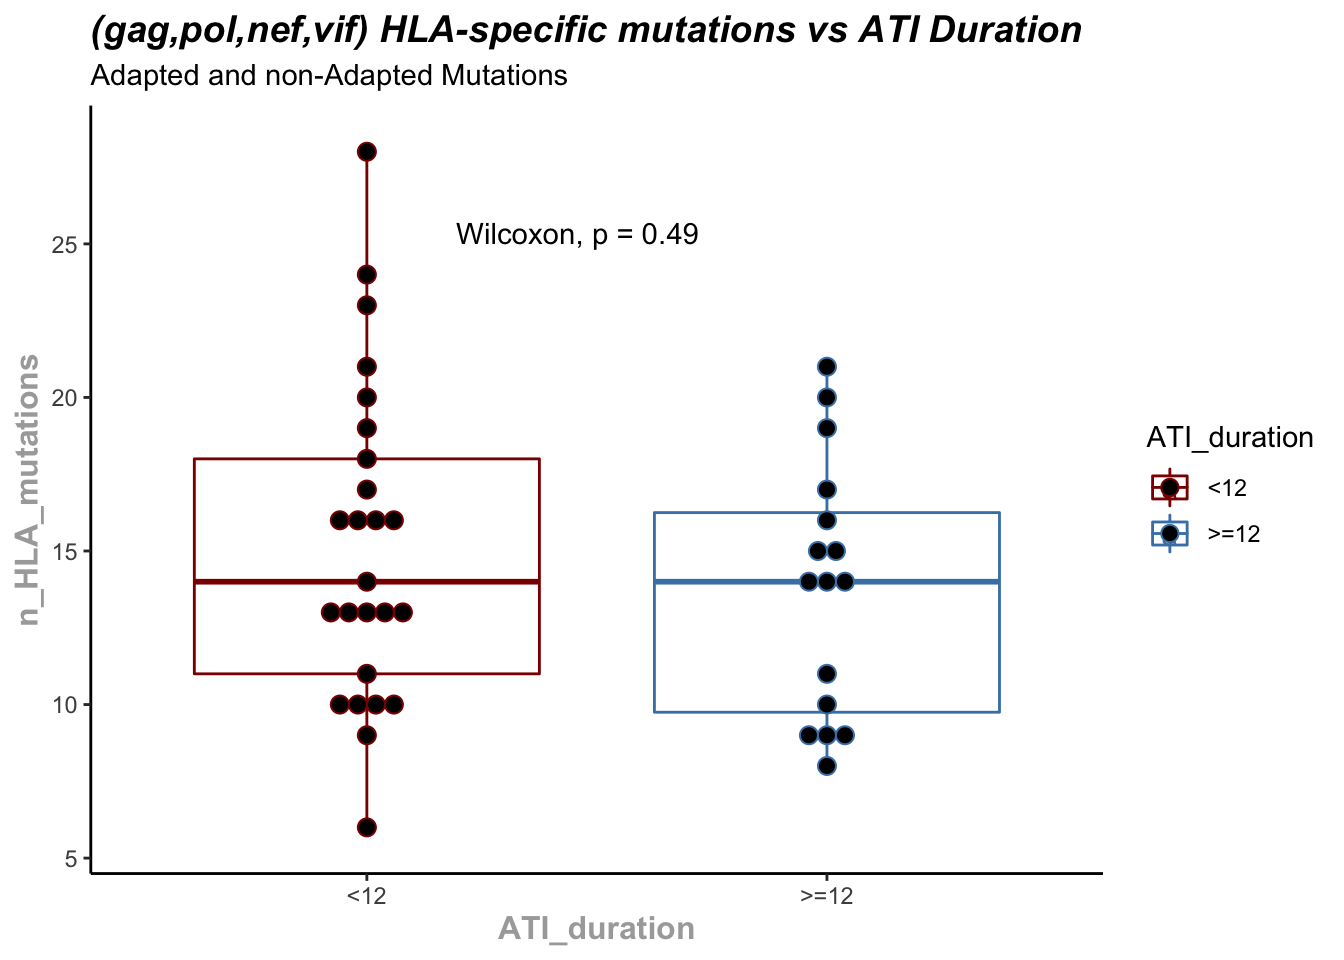
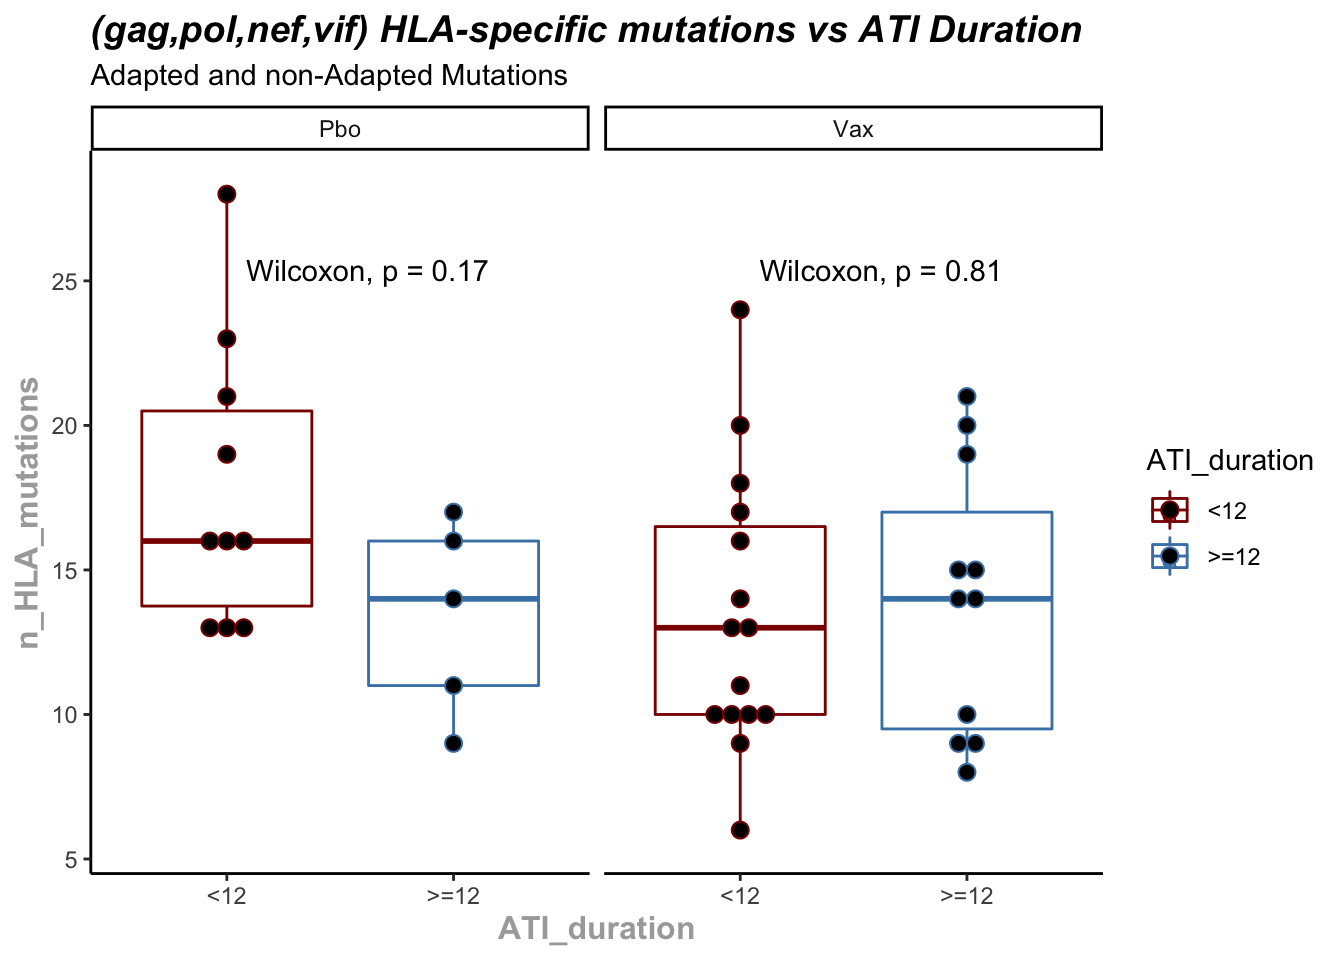
workflowr::wflow_publish(all = T)

diff --git a/docs/051_AdaptedHLAMutations.html b/docs/051_AdaptedHLAMutations.html
@@ -372,7 +372,7 @@ div.tocify {
 
 <p>
 <button type="button" class="btn btn-default btn-workflowr btn-workflowr-report" data-toggle="collapse" data-target="#workflowr-report">
-<span class="glyphicon glyphicon-list" aria-hidden="true"></span> workflowr <span class="glyphicon glyphicon-ok text-success" aria-hidden="true"></span>
+<span class="glyphicon glyphicon-list" aria-hidden="true"></span> workflowr <span class="glyphicon glyphicon-exclamation-sign text-danger" aria-hidden="true"></span>
 </button>
 </p>
 <div id="workflowr-report" class="collapse">
@@ -381,7 +381,7 @@ div.tocify {
 <a data-toggle="tab" href="#summary">Summary</a>
 </li>
 <li>
-<a data-toggle="tab" href="#checks"> Checks <span class="glyphicon glyphicon-ok text-success" aria-hidden="true"></span> </a>
+<a data-toggle="tab" href="#checks"> Checks <span class="glyphicon glyphicon-exclamation-sign text-danger" aria-hidden="true"></span> </a>
 </li>
 <li>
 <a data-toggle="tab" href="#versions">Past versions</a>
@@ -393,7 +393,7 @@ div.tocify {
 <strong>Last updated:</strong> 2022-03-11
 </p>
 <p>
-<strong>Checks:</strong> <span class="glyphicon glyphicon-ok text-success" aria-hidden="true"></span> 7 <span class="glyphicon glyphicon-exclamation-sign text-danger" aria-hidden="true"></span> 0
+<strong>Checks:</strong> <span class="glyphicon glyphicon-ok text-success" aria-hidden="true"></span> 6 <span class="glyphicon glyphicon-exclamation-sign text-danger" aria-hidden="true"></span> 1
 </p>
 <p>
 <strong>Knit directory:</strong> <code>HLA_Analysis/</code> <span class="glyphicon glyphicon-question-sign" aria-hidden="true" title="This is the local directory in which the code in this file was executed."> </span>
@@ -409,12 +409,12 @@ This reproducible <a href="https://rmarkdown.rstudio.com">R Markdown</a> analysi
 <div class="panel panel-default">
 <div class="panel-heading">
 <p class="panel-title">
-<a data-toggle="collapse" data-parent="#workflowr-checks" href="#strongRMarkdownfilestronguptodate"> <span class="glyphicon glyphicon-ok text-success" aria-hidden="true"></span> <strong>R Markdown file:</strong> up-to-date </a>
+<a data-toggle="collapse" data-parent="#workflowr-checks" href="#strongRMarkdownfilestronguncommittedchanges"> <span class="glyphicon glyphicon-exclamation-sign text-danger" aria-hidden="true"></span> <strong>R Markdown file:</strong> uncommitted changes </a>
 </p>
 </div>
-<div id="strongRMarkdownfilestronguptodate" class="panel-collapse collapse">
+<div id="strongRMarkdownfilestronguncommittedchanges" class="panel-collapse collapse">
 <div class="panel-body">
-<p>Great! Since the R Markdown file has been committed to the Git repository, you know the exact version of the code that produced these results.</p>
+<p>The R Markdown file has unstaged changes. To know which version of the R Markdown file created these results, you’ll want to first commit it to the Git repo. If you’re still working on the analysis, you can ignore this warning. When you’re finished, you can run <code>wflow_publish</code> to commit the R Markdown file and build the HTML.</p>
 </div>
 </div>
 </div>
@@ -481,16 +481,16 @@ This reproducible <a href="https://rmarkdown.rstudio.com">R Markdown</a> analysi
 <div class="panel panel-default">
 <div class="panel-heading">
 <p class="panel-title">
-<a data-toggle="collapse" data-parent="#workflowr-checks" href="#strongRepositoryversionstrongahrefhttpsgithubcommnogueraHLAAnalysistree11539948ce62be9bd211f9be9608cf8c22621025targetblank1153994a"> <span class="glyphicon glyphicon-ok text-success" aria-hidden="true"></span> <strong>Repository version:</strong> <a href="https://github.com/mnoguera/HLA_Analysis/tree/11539948ce62be9bd211f9be9608cf8c22621025" target="_blank">1153994</a> </a>
+<a data-toggle="collapse" data-parent="#workflowr-checks" href="#strongRepositoryversionstrongahrefhttpsgithubcommnogueraHLAAnalysistree263e15ede4a2abf9cdfac5104b0d35fb23cffc65targetblank263e15ea"> <span class="glyphicon glyphicon-ok text-success" aria-hidden="true"></span> <strong>Repository version:</strong> <a href="https://github.com/mnoguera/HLA_Analysis/tree/263e15ede4a2abf9cdfac5104b0d35fb23cffc65" target="_blank">263e15e</a> </a>
 </p>
 </div>
[2 lines of base64/hex data omitted]
 <div class="panel-body">
 <p>
 Great! You are using Git for version control. Tracking code development and connecting the code version to the results is critical for reproducibility.
 </p>
 <p>
-The results in this page were generated with repository version <a href="https://github.com/mnoguera/HLA_Analysis/tree/11539948ce62be9bd211f9be9608cf8c22621025" target="_blank">1153994</a>. See the <em>Past versions</em> tab to see a history of the changes made to the R Markdown and HTML files.
+The results in this page were generated with repository version <a href="https://github.com/mnoguera/HLA_Analysis/tree/263e15ede4a2abf9cdfac5104b0d35fb23cffc65" target="_blank">263e15e</a>. See the <em>Past versions</em> tab to see a history of the changes made to the R Markdown and HTML files.
 </p>
 <p>
 Note that you need to be careful to ensure that all relevant files for the analysis have been committed to Git prior to generating the results (you can use <code>wflow_publish</code> or <code>wflow_git_commit</code>). workflowr only checks the R Markdown file, but you know if there are other scripts or data files that it depends on. Below is the status of the Git repository when the results were generated:
@@ -510,6 +510,10 @@ Ignored files:
 
 Untracked files:
     Untracked:  analysis/060_EpitopeSequences.Rmd
+
+Unstaged changes:
+    Modified:   analysis/050_AllHLAMutations.Rmd
+    Modified:   analysis/051_AdaptedHLAMutations.Rmd
 
 </code></pre>
 <p>
@@ -548,6 +552,23 @@ Message
 </tr>
 </thead>
 <tbody>
+<tr>
+<td>
+html
+</td>
+<td>
+<a href="https://rawcdn.githack.com/mnoguera/HLA_Analysis/263e15ede4a2abf9cdfac5104b0d35fb23cffc65/docs/051_AdaptedHLAMutations.html" target="_blank">263e15e</a>
+</td>
+<td>
+Marc Noguera-Julian
+</td>
+<td>
+2022-03-11
+</td>
+<td>
+Build site.
+</td>
+</tr>
 <tr>
 <td>
 Rmd
@@ -1062,7 +1083,7 @@ variant_df %&gt;%
       axis.title.x = element_text(color=&quot;darkgrey&quot;, size=12, face=&quot;bold&quot;),
       axis.title.y = element_text(color=&quot;darkgrey&quot;, size=12, face=&quot;bold&quot;)
     )+
-    geom_dotplot(binaxis=&#39;y&#39;, stackdir=&#39;center&#39;, dotsize=0.8)</code></pre>
+    geom_dotplot(binaxis=&#39;y&#39;, stackdir=&#39;center&#39;, dotsize=0.8)+facet_wrap(~TreatmentGroup)</code></pre>
 <pre><code>Joining, by = &quot;SampleID&quot;
 Bin width defaults to 1/30 of the range of the data. Pick better value with
 `binwidth`.</code></pre>
@@ -1089,6 +1110,17 @@ Date
 </tr>
 </thead>
 <tbody>
+<tr>
+<td>
+<a href="https://github.com/mnoguera/HLA_Analysis/blob/263e15ede4a2abf9cdfac5104b0d35fb23cffc65/docs/figure/051_AdaptedHLAMutations.Rmd/calculate numbe of variants in patients HLA Mutations List vs ATI Duration-1.png" target="_blank">263e15e</a>
+</td>
+<td>
+Marc Noguera-Julian
+</td>
+<td>
+2022-03-11
+</td>
+</tr>
 <tr>
 <td>
 <a href="https://github.com/mnoguera/HLA_Analysis/blob/6dc73f10cdbc5d8653f4c0a7f041e73a52ecb4ff/docs/figure/051_AdaptedHLAMutations.Rmd/calculate numbe of variants in patients HLA Mutations List vs ATI Duration-1.png" target="_blank">6dc73f1</a>

diff --git a/docs/050_AllHLAMutations.html b/docs/050_AllHLAMutations.html
@@ -372,7 +372,7 @@ div.tocify {
 
 <p>
 <button type="button" class="btn btn-default btn-workflowr btn-workflowr-report" data-toggle="collapse" data-target="#workflowr-report">
-<span class="glyphicon glyphicon-list" aria-hidden="true"></span> workflowr <span class="glyphicon glyphicon-ok text-success" aria-hidden="true"></span>
+<span class="glyphicon glyphicon-list" aria-hidden="true"></span> workflowr <span class="glyphicon glyphicon-exclamation-sign text-danger" aria-hidden="true"></span>
 </button>
 </p>
 <div id="workflowr-report" class="collapse">
@@ -381,7 +381,7 @@ div.tocify {
 <a data-toggle="tab" href="#summary">Summary</a>
 </li>
 <li>
-<a data-toggle="tab" href="#checks"> Checks <span class="glyphicon glyphicon-ok text-success" aria-hidden="true"></span> </a>
+<a data-toggle="tab" href="#checks"> Checks <span class="glyphicon glyphicon-exclamation-sign text-danger" aria-hidden="true"></span> </a>
 </li>
 <li>
 <a data-toggle="tab" href="#versions">Past versions</a>
@@ -393,7 +393,7 @@ div.tocify {
 <strong>Last updated:</strong> 2022-03-11
 </p>
 <p>
-<strong>Checks:</strong> <span class="glyphicon glyphicon-ok text-success" aria-hidden="true"></span> 7 <span class="glyphicon glyphicon-exclamation-sign text-danger" aria-hidden="true"></span> 0
+<strong>Checks:</strong> <span class="glyphicon glyphicon-ok text-success" aria-hidden="true"></span> 6 <span class="glyphicon glyphicon-exclamation-sign text-danger" aria-hidden="true"></span> 1
 </p>
 <p>
 <strong>Knit directory:</strong> <code>HLA_Analysis/</code> <span class="glyphicon glyphicon-question-sign" aria-hidden="true" title="This is the local directory in which the code in this file was executed."> </span>
@@ -409,12 +409,12 @@ This reproducible <a href="https://rmarkdown.rstudio.com">R Markdown</a> analysi
 <div class="panel panel-default">
 <div class="panel-heading">
 <p class="panel-title">
-<a data-toggle="collapse" data-parent="#workflowr-checks" href="#strongRMarkdownfilestronguptodate"> <span class="glyphicon glyphicon-ok text-success" aria-hidden="true"></span> <strong>R Markdown file:</strong> up-to-date </a>
+<a data-toggle="collapse" data-parent="#workflowr-checks" href="#strongRMarkdownfilestronguncommittedchanges"> <span class="glyphicon glyphicon-exclamation-sign text-danger" aria-hidden="true"></span> <strong>R Markdown file:</strong> uncommitted changes </a>
 </p>
 </div>
-<div id="strongRMarkdownfilestronguptodate" class="panel-collapse collapse">
+<div id="strongRMarkdownfilestronguncommittedchanges" class="panel-collapse collapse">
 <div class="panel-body">
-<p>Great! Since the R Markdown file has been committed to the Git repository, you know the exact version of the code that produced these results.</p>
+<p>The R Markdown file has unstaged changes. To know which version of the R Markdown file created these results, you’ll want to first commit it to the Git repo. If you’re still working on the analysis, you can ignore this warning. When you’re finished, you can run <code>wflow_publish</code> to commit the R Markdown file and build the HTML.</p>
 </div>
 </div>
 </div>
@@ -481,16 +481,16 @@ This reproducible <a href="https://rmarkdown.rstudio.com">R Markdown</a> analysi
 <div class="panel panel-default">
 <div class="panel-heading">
 <p class="panel-title">
-<a data-toggle="collapse" data-parent="#workflowr-checks" href="#strongRepositoryversionstrongahrefhttpsgithubcommnogueraHLAAnalysistree11539948ce62be9bd211f9be9608cf8c22621025targetblank1153994a"> <span class="glyphicon glyphicon-ok text-success" aria-hidden="true"></span> <strong>Repository version:</strong> <a href="https://github.com/mnoguera/HLA_Analysis/tree/11539948ce62be9bd211f9be9608cf8c22621025" target="_blank">1153994</a> </a>
+<a data-toggle="collapse" data-parent="#workflowr-checks" href="#strongRepositoryversionstrongahrefhttpsgithubcommnogueraHLAAnalysistree263e15ede4a2abf9cdfac5104b0d35fb23cffc65targetblank263e15ea"> <span class="glyphicon glyphicon-ok text-success" aria-hidden="true"></span> <strong>Repository version:</strong> <a href="https://github.com/mnoguera/HLA_Analysis/tree/263e15ede4a2abf9cdfac5104b0d35fb23cffc65" target="_blank">263e15e</a> </a>
 </p>
 </div>
[2 lines of base64/hex data omitted]
 <div class="panel-body">
 <p>
 Great! You are using Git for version control. Tracking code development and connecting the code version to the results is critical for reproducibility.
 </p>
 <p>
-The results in this page were generated with repository version <a href="https://github.com/mnoguera/HLA_Analysis/tree/11539948ce62be9bd211f9be9608cf8c22621025" target="_blank">1153994</a>. See the <em>Past versions</em> tab to see a history of the changes made to the R Markdown and HTML files.
+The results in this page were generated with repository version <a href="https://github.com/mnoguera/HLA_Analysis/tree/263e15ede4a2abf9cdfac5104b0d35fb23cffc65" target="_blank">263e15e</a>. See the <em>Past versions</em> tab to see a history of the changes made to the R Markdown and HTML files.
 </p>
 <p>
 Note that you need to be careful to ensure that all relevant files for the analysis have been committed to Git prior to generating the results (you can use <code>wflow_publish</code> or <code>wflow_git_commit</code>). workflowr only checks the R Markdown file, but you know if there are other scripts or data files that it depends on. Below is the status of the Git repository when the results were generated:
@@ -510,6 +510,10 @@ Ignored files:
 
 Untracked files:
     Untracked:  analysis/060_EpitopeSequences.Rmd
+
+Unstaged changes:
+    Modified:   analysis/050_AllHLAMutations.Rmd
+    Modified:   analysis/051_AdaptedHLAMutations.Rmd
 
 </code></pre>
 <p>
@@ -548,6 +552,23 @@ Message
 </tr>
 </thead>
 <tbody>
+<tr>
+<td>
+html
+</td>
+<td>
+<a href="https://rawcdn.githack.com/mnoguera/HLA_Analysis/263e15ede4a2abf9cdfac5104b0d35fb23cffc65/docs/050_AllHLAMutations.html" target="_blank">263e15e</a>
+</td>
+<td>
+Marc Noguera-Julian
+</td>
+<td>
+2022-03-11
+</td>
+<td>
+Build site.
+</td>
+</tr>
 <tr>
 <td>
 Rmd
@@ -1048,7 +1069,7 @@ variant_df %&gt;%
       axis.title.x = element_text(color=&quot;darkgrey&quot;, size=12, face=&quot;bold&quot;),
       axis.title.y = element_text(color=&quot;darkgrey&quot;, size=12, face=&quot;bold&quot;)
     )+
-    geom_dotplot(binaxis=&#39;y&#39;, stackdir=&#39;center&#39;, dotsize=0.8)</code></pre>
+    geom_dotplot(binaxis=&#39;y&#39;, stackdir=&#39;center&#39;, dotsize=0.8)+facet_wrap(~TreatmentGroup)</code></pre>
 <pre><code>Joining, by = &quot;SampleID&quot;
 Bin width defaults to 1/30 of the range of the data. Pick better value with
 `binwidth`.</code></pre>
@@ -1075,6 +1096,17 @@ Date
 </tr>
 </thead>
 <tbody>
+<tr>
+<td>
+<a href="https://github.com/mnoguera/HLA_Analysis/blob/263e15ede4a2abf9cdfac5104b0d35fb23cffc65/docs/figure/050_AllHLAMutations.Rmd/calculate numbe of variants in patients HLA Mutations List vs ATI Duration-1.png" target="_blank">263e15e</a>
+</td>
+<td>
+Marc Noguera-Julian
+</td>
+<td>
+2022-03-11
+</td>
+</tr>
 <tr>
 <td>
 <a href="https://github.com/mnoguera/HLA_Analysis/blob/6dc73f10cdbc5d8653f4c0a7f041e73a52ecb4ff/docs/figure/050_AllHLAMutations.Rmd/calculate numbe of variants in patients HLA Mutations List vs ATI Duration-1.png" target="_blank">6dc73f1</a>
